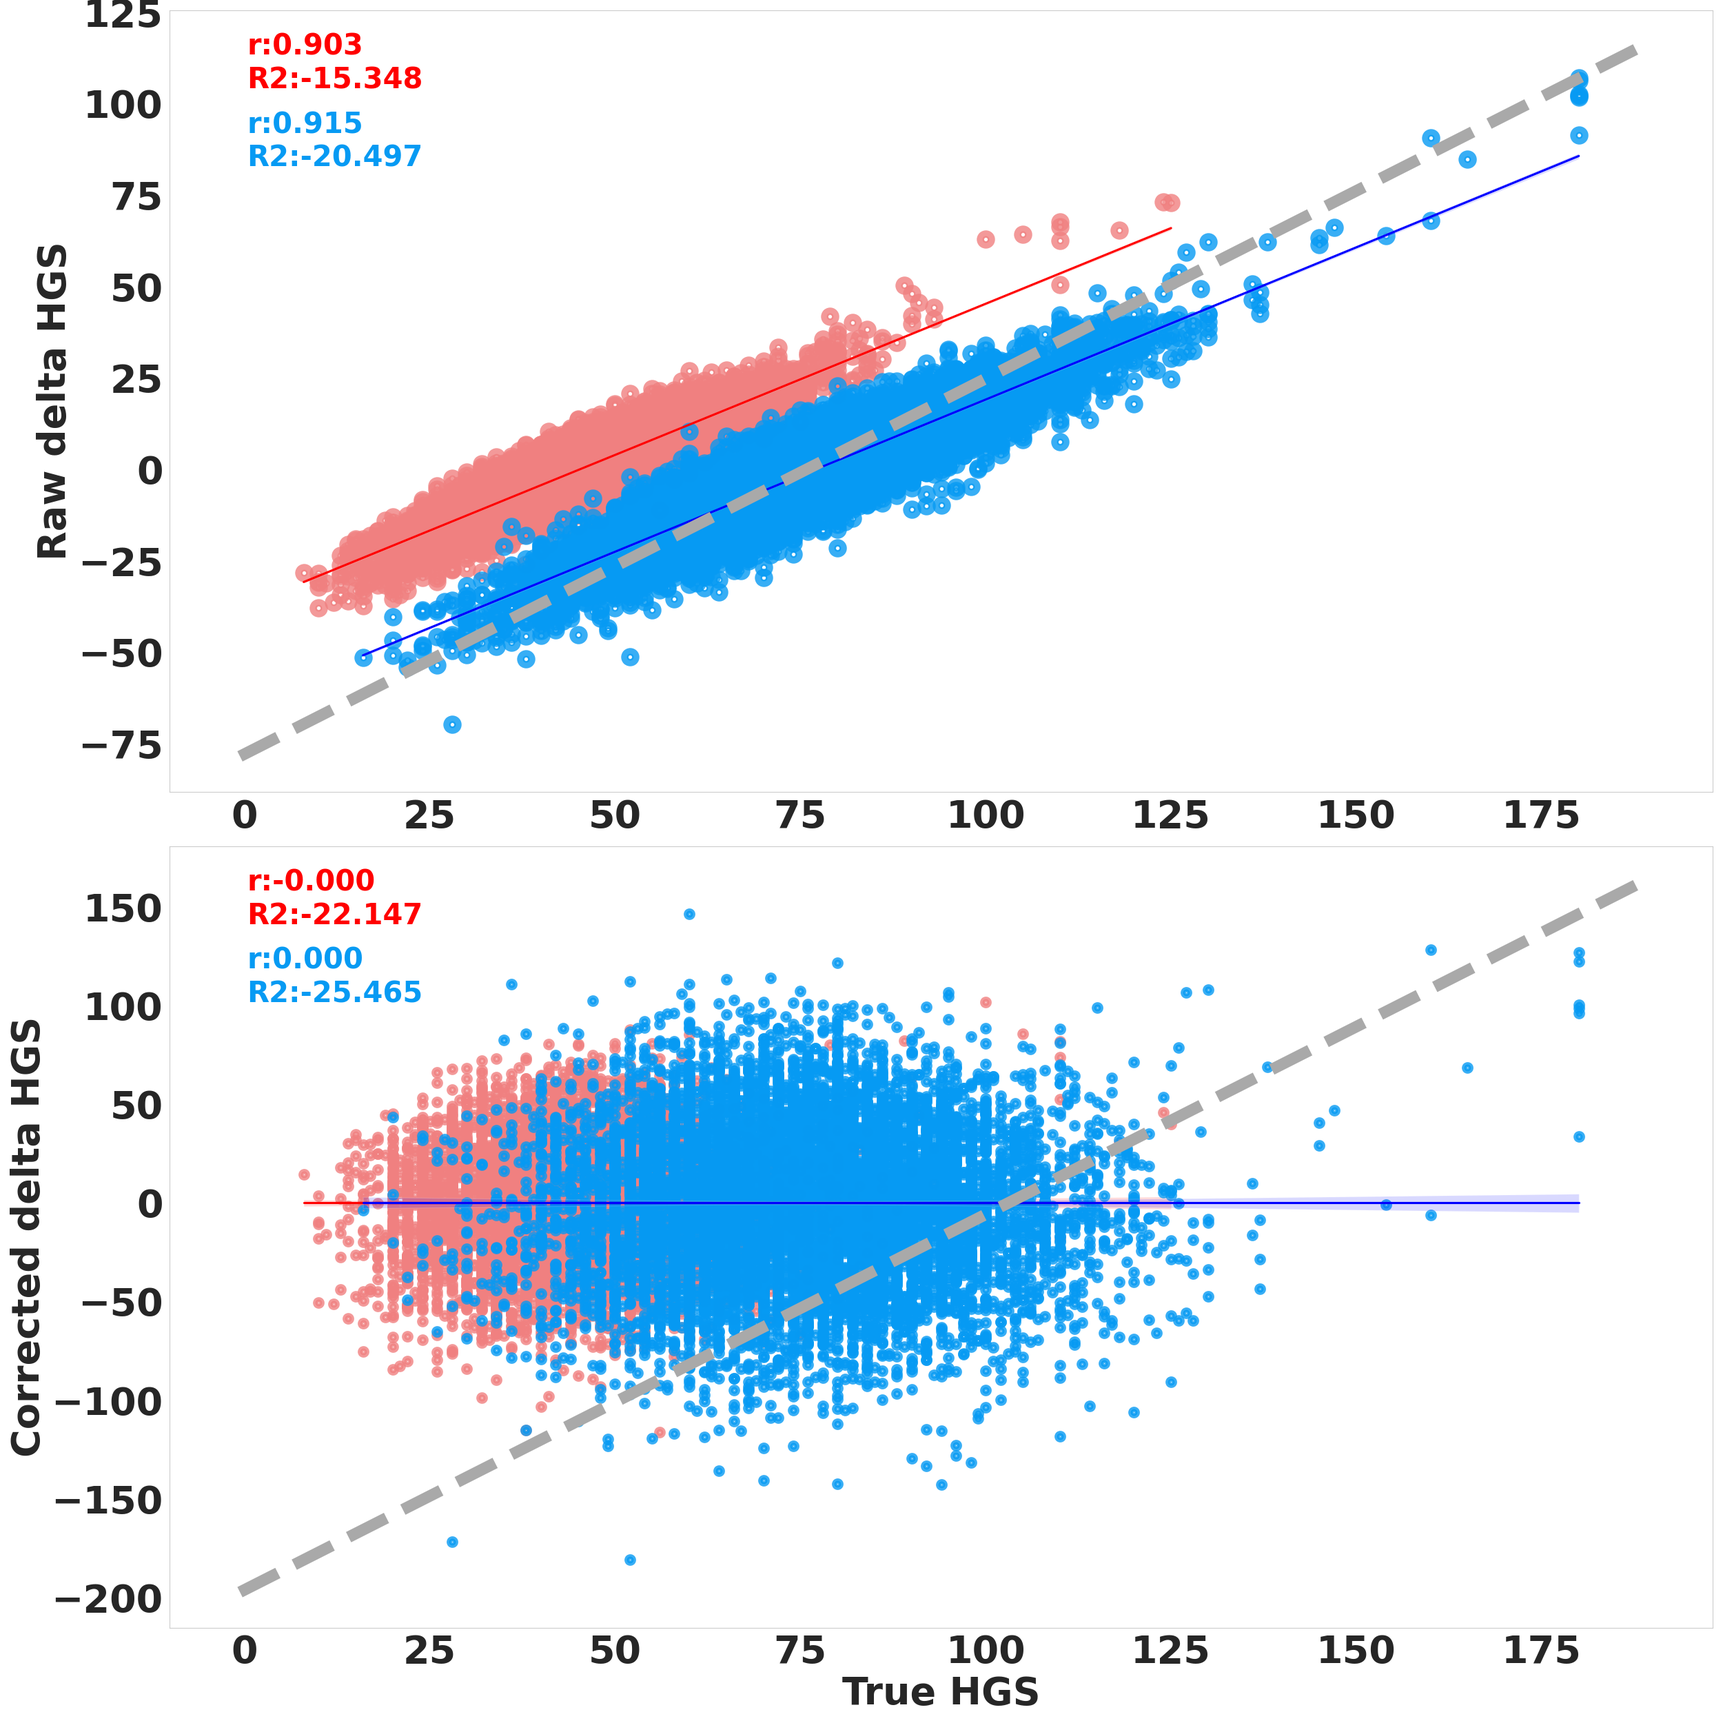
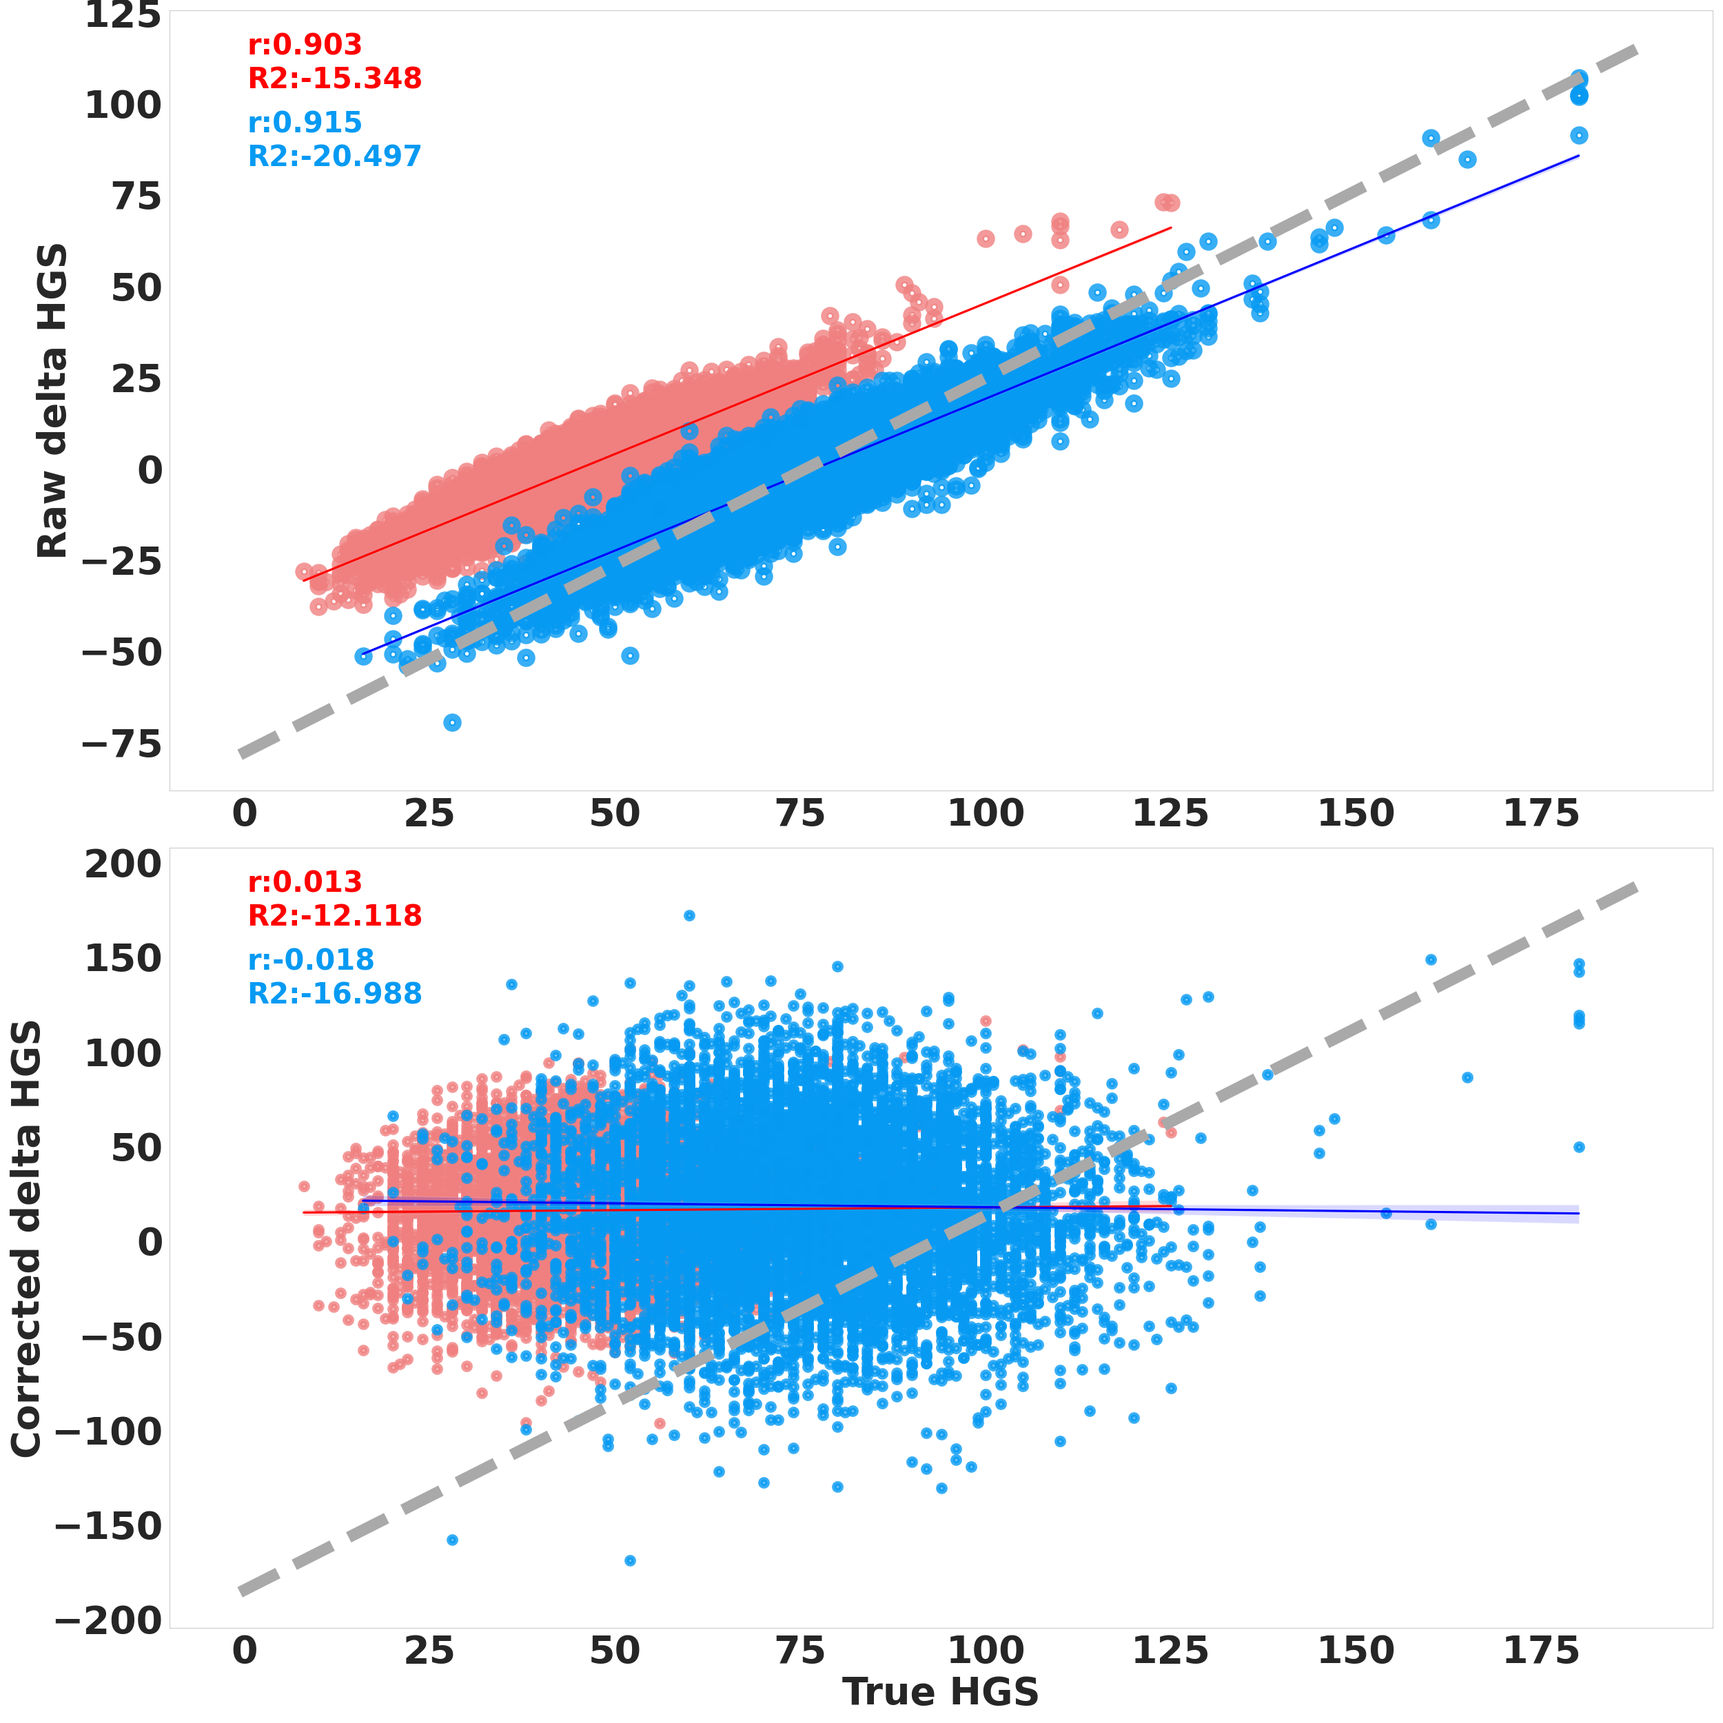
Added file to correct or adjust predicted hgs and delta

diff --git a/exec/5_evaluate_trained_models/5_2_evaluate_adjusted_trained_model/1_run_correction_hgs_prediction_cole.py b/exec/5_evaluate_trained_models/5_2_evaluate_adjusted_trained_model/1_run_correction_hgs_prediction_cole.py
@@ -1,0 +1,330 @@
+#!/usr/bin/env Disorderspredwp3
+"""
+Predict the motor based on specific features on populations data.
+Motor is Handgrip strength (1 phase).
+
+# Author:  Kimia Nazarzadeh <k.nazarzadeh@fz-juelich.de>
+
+# License: AGPL
+
+"""
+import os
+import sys
+import pandas as pd
+import numpy as np
+import seaborn as sns
+import matplotlib.pyplot as plt
+from scipy.stats import pearsonr
+from sklearn.metrics import r2_score
+from sklearn.linear_model import LinearRegression
+from hgsprediction.load_data import healthy_load_data
+from hgsprediction.define_features import define_features
+from hgsprediction.predict_hgs import predict_hgs
+from hgsprediction.extract_data import healthy_extract_data
+
+#--------------------------------------------------------------------------#
+from ptpython.repl import embed
+# print("===== Done! =====")
+# embed(globals(), locals())
+
+###############################################################################
+# Parse, add and return the arguments by function parse_args.
+###############################################################################
+filename = sys.argv[0]
+population = sys.argv[1]
+mri_status = sys.argv[2]
+feature_type = sys.argv[3]
+target = sys.argv[4]
+model_name = sys.argv[5]
+session = sys.argv[6]
+confound_status = sys.argv[7]
+n_repeats = sys.argv[8]
+n_folds = sys.argv[9]
+# gender = sys.argv[10]
+# print("===== Done! =====")
+# embed(globals(), locals())
+###############################################################################
+
+if confound_status == '0':
+        confound = "without_confound_removal"
+else:
+    confound = "with_confound_removal"
+folder_path = os.path.join(
+        "/data",
+            "project",
+            "stroke_ukb",
+            "knazarzadeh",
+            "project_hgsprediction",
+            "results_hgsprediction",
+            f"{population}",
+            f"{mri_status}",
+            f"{feature_type}",
+            f"{target}",
+            f"{confound}",
+            f"{model_name}",
+            f"{n_repeats}_repeats_{n_folds}_folds",
+            f"female",
+            "prediction_hgs_on_validation_set_trained",
+        )
+
+# Define the csv file path to save
+file_path = os.path.join(
+    folder_path,
+    f"prediction_hgs_on_validation_set_trained_trained.pkl")
+
+df_female = pd.read_pickle(file_path)
+
+
+folder_path = os.path.join(
+        "/data",
+            "project",
+            "stroke_ukb",
+            "knazarzadeh",
+            "project_hgsprediction",
+            "results_hgsprediction",
+            f"{population}",
+            f"{mri_status}",
+            f"{feature_type}",
+            f"{target}",
+            f"{confound}",
+            f"{model_name}",
+            f"{n_repeats}_repeats_{n_folds}_folds",
+            f"male",
+            "prediction_hgs_on_validation_set_trained",
+        )
+
+# Define the csv file path to save
+file_path = os.path.join(
+    folder_path,
+    f"prediction_hgs_on_validation_set_trained_trained.pkl")
+
+df_male = pd.read_pickle(file_path)
+
+###############################################################################
+
+model_female = LinearRegression()
+model_female.fit(df_female.loc[:, f"{target}"].values.reshape(-1, 1), df_female.loc[:, f"{target}_predicted"])
+slope_female = model_female.coef_[0]
+intercept_female = model_female.intercept_
+
+model_male = LinearRegression()
+model_male.fit(df_male.loc[:, f"{target}"].values.reshape(-1, 1), df_male.loc[:, f"{target}_predicted"])
+slope_male = model_male.coef_[0]
+intercept_male = model_male.intercept_
+
+###############################################################################
+# Assuming that you have already trained and instantiated the model as `model`
+folder_path = os.path.join(
+        "/data",
+        "project",
+        "stroke_ukb",
+        "knazarzadeh",
+        "project_hgsprediction",  
+        "results_hgsprediction",
+        f"{population}",
+        "mri",
+        "2_session_ukb",
+        f"{feature_type}",
+        f"{target}",
+        f"{confound}",
+        f"{model_name}",
+        f"{n_repeats}_repeats_{n_folds}_folds",
+        "hgs_predicted_results",
+    )
+
+# Define the csv file path to save
+file_path = os.path.join(
+    folder_path,
+    "female_hgs_predicted_data.csv")
+
+df_female_mri = pd.read_csv(file_path, sep=',', index_col=0)
+    
+
+# Assuming that you have already trained and instantiated the model as `model`
+folder_path = os.path.join(
+        "/data",
+        "project",
+        "stroke_ukb",
+        "knazarzadeh",
+        "project_hgsprediction",  
+        "results_hgsprediction",
+        f"{population}",
+        "mri",
+        "2_session_ukb",
+        f"{feature_type}",
+        f"{target}",
+        f"{confound}",
+        f"{model_name}",
+        f"{n_repeats}_repeats_{n_folds}_folds",
+        "hgs_predicted_results",
+    )
+
+# Define the csv file path to save
+file_path = os.path.join(
+    folder_path,
+    "male_hgs_predicted_data.csv")
+
+df_male_mri = pd.read_csv(file_path, sep=',', index_col=0)
+
+###############################################################################
+print("===== Done! =====")
+embed(globals(), locals())
+df_female_mri_correlations = pd.DataFrame(columns=["r_values_true_raw_predicted", "r2_values_true_raw_predicted",
+                                            "r_values_true_raw_delta", "r2_values_true_raw_delta",
+                                            "r_values_true_corrected_predicted", "r2_values_true_corrected_predicted",
+                                            "r_values_true_corrected_delta", "r2_values_true_corrected_delta"])
+
+df_female_mri.loc[:, "corrected_predicted_hgs"] = (df_female_mri.loc[:, f"{target}_predicted"] - intercept_female) / slope_female
+df_female_mri.loc[:, "corrected_delta_hgs"] =  df_female_mri.loc[:, f"{target}"] - df_female_mri.loc[:, "corrected_predicted_hgs"]
+
+r_values_true_raw_predicted = pearsonr(df_female_mri.loc[:, f"{target}"],df_female_mri.loc[:,f"{target}_predicted"])[0]
+r2_values_true_raw_predicted = r2_score(df_female_mri.loc[:, f"{target}"],df_female_mri.loc[:,f"{target}_predicted"])
+
+r_values_true_raw_delta = pearsonr(df_female_mri.loc[:, f"{target}"],df_female_mri.loc[:,f"{target}_delta(true-predicted)"])[0]
+r2_values_true_raw_delta = r2_score(df_female_mri.loc[:, f"{target}"],df_female_mri.loc[:,f"{target}_delta(true-predicted)"])
+
+r_values_true_corrected_predicted = pearsonr(df_female_mri.loc[:, f"{target}"],df_female_mri.loc[:,"corrected_predicted_hgs"])[0]
+r2_values_true_corrected_predicted = r2_score(df_female_mri.loc[:, f"{target}"],df_female_mri.loc[:,"corrected_predicted_hgs"])
+
+r_values_true_corrected_delta = pearsonr(df_female_mri.loc[:, f"{target}"],df_female_mri.loc[:,"corrected_delta_hgs"])[0]
+r2_values_true_corrected_delta = r2_score(df_female_mri.loc[:, f"{target}"],df_female_mri.loc[:,"corrected_delta_hgs"])
+
+df_female_mri_correlations.loc[0, "r_values_true_raw_predicted"] = r_values_true_raw_predicted
+df_female_mri_correlations.loc[0, "r2_values_true_raw_predicted"] = r2_values_true_raw_predicted
+df_female_mri_correlations.loc[0, "r_values_true_raw_delta"] = r_values_true_raw_delta
+df_female_mri_correlations.loc[0, "r2_values_true_raw_delta"] = r2_values_true_raw_delta
+df_female_mri_correlations.loc[0, "r_values_true_corrected_predicted"] = r_values_true_corrected_predicted
+df_female_mri_correlations.loc[0, "r2_values_true_corrected_predicted"] = r2_values_true_corrected_predicted
+df_female_mri_correlations.loc[0, "r_values_true_corrected_delta"] = r_values_true_corrected_delta
+df_female_mri_correlations.loc[0, "r2_values_true_corrected_delta"] = r2_values_true_corrected_delta
+
+
+###############################################################################
+
+df_male_mri_correlations = pd.DataFrame(columns=["r_values_true_raw_predicted", "r2_values_true_raw_predicted",
+                                            "r_values_true_raw_delta", "r2_values_true_raw_delta",
+                                            "r_values_true_corrected_predicted", "r2_values_true_corrected_predicted",
+                                            "r_values_true_corrected_delta", "r2_values_true_corrected_delta"])
+
+df_male_mri.loc[:, "corrected_predicted_hgs"] = (df_male_mri.loc[:, f"{target}_predicted"] - intercept_male) / slope_male
+df_male_mri.loc[:, "corrected_delta_hgs"] =  df_male_mri.loc[:, f"{target}"] - df_male_mri.loc[:, "corrected_predicted_hgs"]
+
+r_values_true_raw_predicted = pearsonr(df_male_mri.loc[:, f"{target}"],df_male_mri.loc[:,f"{target}_predicted"])[0]
+r2_values_true_raw_predicted = r2_score(df_male_mri.loc[:, f"{target}"],df_male_mri.loc[:,f"{target}_predicted"])
+
+r_values_true_raw_delta = pearsonr(df_male_mri.loc[:, f"{target}"],df_male_mri.loc[:,f"{target}_delta(true-predicted)"])[0]
+r2_values_true_raw_delta = r2_score(df_male_mri.loc[:, f"{target}"],df_male_mri.loc[:,f"{target}_delta(true-predicted)"])
+
+r_values_true_corrected_predicted = pearsonr(df_male_mri.loc[:, f"{target}"],df_male_mri.loc[:,"corrected_predicted_hgs"])[0]
+r2_values_true_corrected_predicted = r2_score(df_male_mri.loc[:, f"{target}"],df_male_mri.loc[:,"corrected_predicted_hgs"])
+
+r_values_true_corrected_delta = pearsonr(df_male_mri.loc[:, f"{target}"],df_male_mri.loc[:,"corrected_delta_hgs"])[0]
+r2_values_true_corrected_delta = r2_score(df_male_mri.loc[:, f"{target}"],df_male_mri.loc[:,"corrected_delta_hgs"])
+
+df_male_mri_correlations.loc[0, "r_values_true_raw_predicted"] = r_values_true_raw_predicted
+df_male_mri_correlations.loc[0, "r2_values_true_raw_predicted"] = r2_values_true_raw_predicted
+df_male_mri_correlations.loc[0, "r_values_true_raw_delta"] = r_values_true_raw_delta
+df_male_mri_correlations.loc[0, "r2_values_true_raw_delta"] = r2_values_true_raw_delta
+df_male_mri_correlations.loc[0, "r_values_true_corrected_predicted"] = r_values_true_corrected_predicted
+df_male_mri_correlations.loc[0, "r2_values_true_corrected_predicted"] = r2_values_true_corrected_predicted
+df_male_mri_correlations.loc[0, "r_values_true_corrected_delta"] = r_values_true_corrected_delta
+df_male_mri_correlations.loc[0, "r2_values_true_corrected_delta"] = r2_values_true_corrected_delta
+
+###############################################################################
+###############################################################################
+# Predicted vs True HGS
+# Raw predicted HGS vs True HGS
+# Corrected predicted HGS vs True HGS
+fig, axes = plt.subplots(2, 1, figsize=(25, 25))
+
+plt.rcParams.update({"font.weight": "bold", 
+                     "axes.labelweight": "bold",
+                     "ytick.labelsize": 40,
+                     "xtick.labelsize": 40,
+                     })
+
+sns.set_style("whitegrid", {'axes.grid' : False})
+
+for i in range(2):
+    ax = axes[i]
+    
+    if i == 0:
+        sns.regplot(data=df_female_mri, x=f"{target}", y=f"{target}_predicted", color='lightcoral', marker="$\circ$", scatter_kws={'s': 50, 'linewidths': 12}, line_kws={"color": "red"}, ax=ax)
+        sns.regplot(data=df_male_mri, x=f"{target}", y=f"{target}_predicted", color='#069AF3', marker="$\circ$", scatter_kws={'s': 50, 'linewidths': 12}, line_kws={"color": "blue"}, ax=ax)
+        ax.set_ylabel("Raw predicted HGS", fontsize=40, fontweight="bold")
+        ax.set_xlabel("")            
+        # ax.set_title(f"Fold:{fold}", fontsize=40, fontweight="bold")            
+        
+        r_text_female = f"r:{df_female_mri_correlations.loc[0, 'r_values_true_raw_predicted']:.3f}\nR2:{df_female_mri_correlations.loc[0, 'r2_values_true_raw_predicted']:.3f}"
+        r_text_male = f"r:{df_male_mri_correlations.loc[0, 'r_values_true_raw_predicted']:.3f}\nR2:{df_male_mri_correlations.loc[0, 'r2_values_true_raw_predicted']:.3f}"
+        ax.annotate(r_text_female, xy=(0.05, 0.9), xycoords='axes fraction', fontsize=30, fontweight="bold", color='red')
+        ax.annotate(r_text_male, xy=(0.05, 0.8), xycoords='axes fraction', fontsize=30, fontweight="bold", color='#069AF3')
+    elif i == 1:
+        sns.regplot(data=df_female_mri, x=f"{target}", y=f"corrected_predicted_hgs", color='lightcoral', marker="$\circ$", scatter_kws={'s': 50, 'linewidths': 5}, line_kws={"color": "red"}, ax=ax)
+        sns.regplot(data=df_male_mri, x=f"{target}", y=f"corrected_predicted_hgs", color='#069AF3', marker="$\circ$", scatter_kws={'s': 50, 'linewidths': 5}, line_kws={"color": "blue"}, ax=ax)
+        ax.set_ylabel("Corrected predicted HGS", fontsize=40, fontweight="bold")
+        ax.set_xlabel("True HGS", fontsize=40, fontweight="bold")
+
+        r_text_female = f"r:{df_female_mri_correlations.loc[0, 'r_values_true_corrected_predicted']:.3f}\nR2:{df_female_mri_correlations.loc[0, 'r2_values_true_corrected_predicted']:.3f}"
+        r_text_male = f"r:{df_male_mri_correlations.loc[0, 'r_values_true_corrected_predicted']:.3f}\nR2:{df_male_mri_correlations.loc[0, 'r2_values_true_corrected_predicted']:.3f}"
+        ax.annotate(r_text_female, xy=(0.05, 0.9), xycoords='axes fraction', fontsize=30, fontweight="bold", color='red')
+        ax.annotate(r_text_male, xy=(0.05, 0.8), xycoords='axes fraction', fontsize=30, fontweight="bold", color='#069AF3')
+    
+    xmin, xmax = ax.get_xlim()
+    ymin, ymax = ax.get_ylim()
+
+    ax.plot([xmin, xmax], [ymin, ymax], color='darkgrey', linestyle='--', linewidth=12)
+
+plt.tight_layout()
+plt.show()
+plt.savefig(f"true_predicted.png")
+plt.close()
+
+###############################################################################
+# Delta vs True HGS
+# Raw delta HGS vs True HGS
+# Corrected delta HGS vs True HGS
+fig, axes = plt.subplots(2, 1, figsize=(25, 25))
+
+plt.rcParams.update({"font.weight": "bold", 
+                     "axes.labelweight": "bold",
+                     "ytick.labelsize": 40,
+                     "xtick.labelsize": 40,
+                     })
+
+sns.set_style("whitegrid", {'axes.grid' : False})
+
+for i in range(2):
+    ax = axes[i]
+    
+    if i == 0:
+        sns.regplot(data=df_female_mri, x=f"{target}", y=f"{target}_delta(true-predicted)", color='lightcoral', marker="$\circ$", scatter_kws={'s': 50, 'linewidths': 12}, line_kws={"color": "red"}, ax=ax)
+        sns.regplot(data=df_male_mri, x=f"{target}", y=f"{target}_delta(true-predicted)", color='#069AF3', marker="$\circ$", scatter_kws={'s': 50, 'linewidths': 12}, line_kws={"color": "blue"}, ax=ax)
+        ax.set_ylabel("Raw delta HGS", fontsize=40, fontweight="bold")
+        ax.set_xlabel("")                        
+        
+        r_text_female = f"r:{df_female_mri_correlations.loc[0, 'r_values_true_raw_delta']:.3f}\nR2:{df_female_mri_correlations.loc[0, 'r2_values_true_raw_delta']:.3f}"
+        r_text_male = f"r:{df_male_mri_correlations.loc[0, 'r_values_true_raw_delta']:.3f}\nR2:{df_male_mri_correlations.loc[0, 'r2_values_true_raw_delta']:.3f}"
+        ax.annotate(r_text_female, xy=(0.05, 0.9), xycoords='axes fraction', fontsize=30, fontweight="bold", color='red')
+        ax.annotate(r_text_male, xy=(0.05, 0.8), xycoords='axes fraction', fontsize=30, fontweight="bold", color='#069AF3')
+    elif i == 1:
+        sns.regplot(data=df_female_mri, x=f"{target}", y=f"corrected_delta_hgs", color='lightcoral', marker="$\circ$", scatter_kws={'s': 50, 'linewidths': 5}, line_kws={"color": "red"}, ax=ax)
+        sns.regplot(data=df_male_mri, x=f"{target}", y=f"corrected_delta_hgs", color='#069AF3', marker="$\circ$", scatter_kws={'s': 50, 'linewidths': 5}, line_kws={"color": "blue"}, ax=ax)
+        ax.set_ylabel("Corrected delta HGS", fontsize=40, fontweight="bold")
+        ax.set_xlabel("True HGS", fontsize=40, fontweight="bold")
+
+        r_text_female = f"r:{df_female_mri_correlations.loc[0, 'r_values_true_corrected_delta']:.3f}\nR2:{df_female_mri_correlations.loc[0, 'r2_values_true_corrected_delta']:.3f}"
+        r_text_male = f"r:{df_male_mri_correlations.loc[0, 'r_values_true_corrected_delta']:.3f}\nR2:{df_male_mri_correlations.loc[0, 'r2_values_true_corrected_delta']:.3f}"
+        ax.annotate(r_text_female, xy=(0.05, 0.9), xycoords='axes fraction', fontsize=30, fontweight="bold", color='red')
+        ax.annotate(r_text_male, xy=(0.05, 0.8), xycoords='axes fraction', fontsize=30, fontweight="bold", color='#069AF3')
+    
+    xmin, xmax = ax.get_xlim()
+    ymin, ymax = ax.get_ylim()
+
+    ax.plot([xmin, xmax], [ymin, ymax], color='darkgrey', linestyle='--', linewidth=12)
+
+plt.tight_layout()
+plt.show()
+plt.savefig(f"true_delta.png")
+plt.close()
+    
